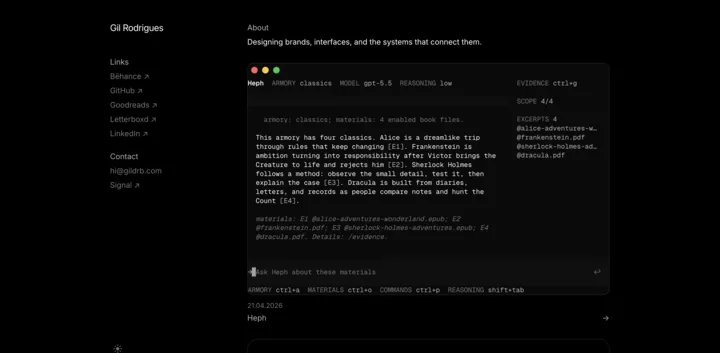
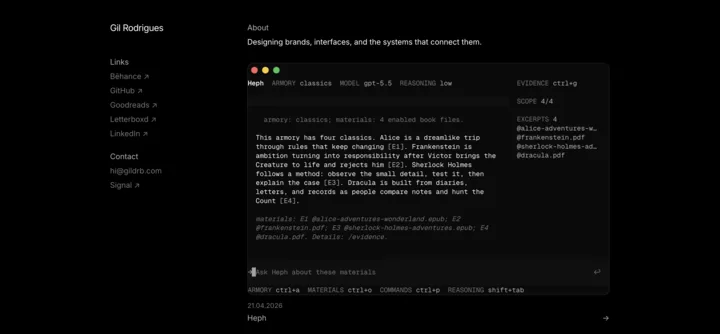
Tighten This website screenshot crop to drop next-card sliver

diff --git a/index.html b/index.html
@@ -3408,7 +3408,7 @@ body {
                                 "
                                 sizes="(max-width: 768px) calc(100vw - 24px), (max-width: 1100px) calc(100vw - 336px), 760px"
                                 width="3022"
-                                height="1480"
+                                height="1400"
                                 alt="The portfolio homepage in dark mode with the About line and the interactive Heph terminal demo"
                                 loading="lazy"
                                 decoding="async"

diff --git a/src/sections/portfolio-site.html b/src/sections/portfolio-site.html
@@ -19,7 +19,7 @@
                                 "
                                 sizes="(max-width: 768px) calc(100vw - 24px), (max-width: 1100px) calc(100vw - 336px), 760px"
                                 width="3022"
-                                height="1480"
+                                height="1400"
                                 alt="The portfolio homepage in dark mode with the About line and the interactive Heph terminal demo"
                                 loading="lazy"
                                 decoding="async"
